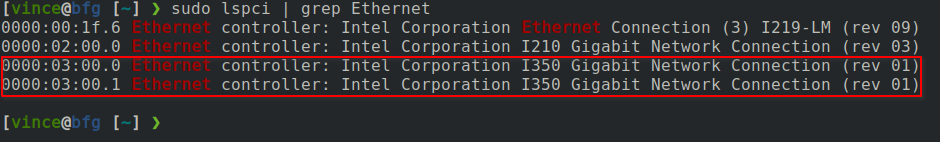
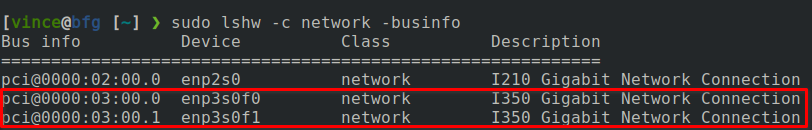
fixed i350 sriov steps to account for all VFs

diff --git a/source/env/intel-i350.rst b/source/env/intel-i350.rst
@@ -10,7 +10,7 @@ SR-IOV feature. The following procedure will enabled it.
 
    .. code-block:: bash
 
-      sudo lspci | grep Ethernet
+      sudo lshw -c network -businfo
 
    .. image:: ./images/lspci-ethernet.png
 
@@ -18,13 +18,11 @@ SR-IOV feature. The following procedure will enabled it.
 
    .. code-block:: bash
 
-      sudo lspci -v | less
-
-      # Search for "0000:03:00.0"
+      sudo lspci -vs 0000:03:00.0
 
    .. image:: ./images/eth-capabilities.png
 
-   .. important:: In this example SR-IOV is enabled. No need to make any changes.
+   .. attention:: In this example SR-IOV is enabled. No need to make any changes.
 
 #. Check the offset bit
 
@@ -32,13 +30,22 @@ SR-IOV feature. The following procedure will enabled it.
 
       sudo ethtool --eeprom-dump enp3s0f0 offset 0x004a length 1
 
-   .. note:: If SR-IOV is enabled this should be set to "01" my card was set to "F0".
+   .. note:: If SR-IOV is enabled this should be set to something other than
+      zero my card was set to "F0" (Disabled).
 
-#. Modify the offset bit to "1"
+#. Modify the offset bit based on the number supported VF's. The i350 supports
+   up to 8. I set mine to 7 based another card that was configured with 7.
 
    .. code-block:: bash
 
-      sudo ethtool --change-eeprom enp3s0f0 magic 0x15218086 offset 0x4a length 1 value 0x01
+      sudo ethtool --change-eeprom enp3s0f0 magic 0x15218086 offset 0x4a length 1 value 0xF7
 
    .. warning:: If done wrong this could brick your interface.
+
+#. Reboot and check total allowable VF's. Should now show 7 for each interface.
+
+   .. code-block:: bash
+
+      cat /sys/class/net/enp3s0f0/device/sriov_totalvfs
+      cat /sys/class/net/enp3s0f1/device/sriov_totalvfs
 
